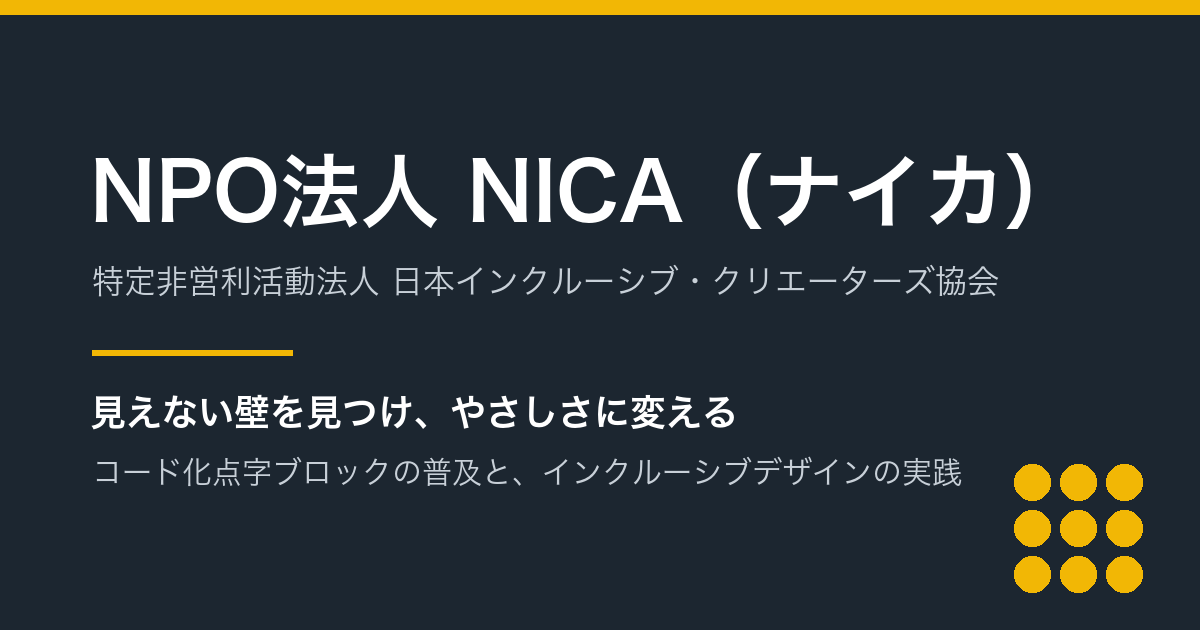
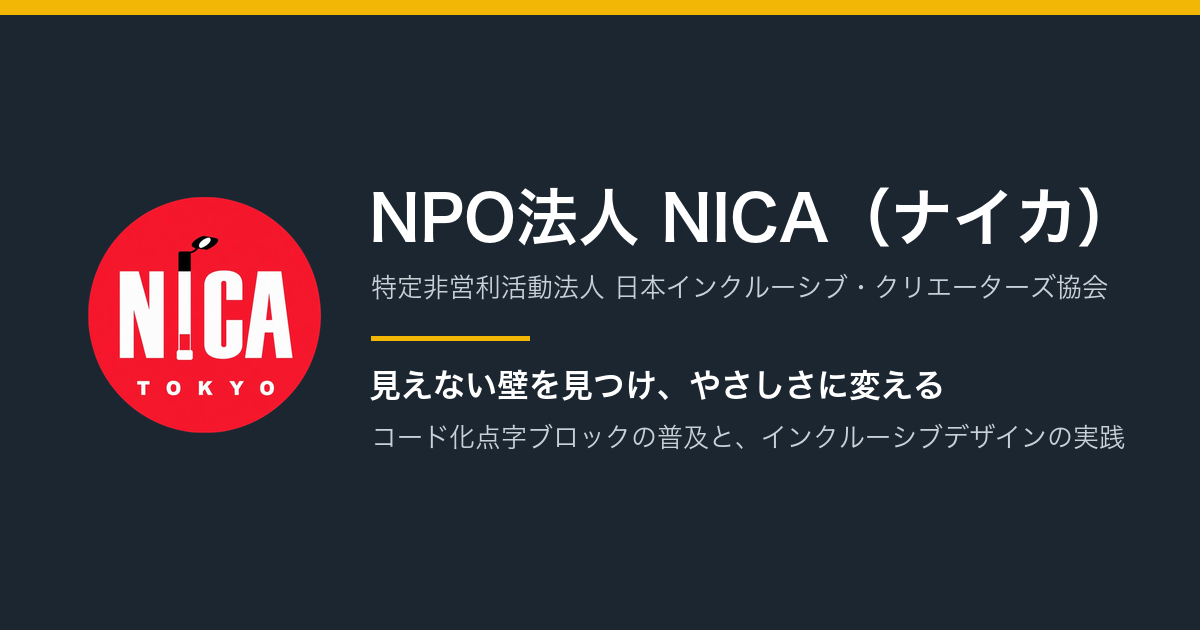
団体のロゴをヘッダー・アイコン・共有画像に反映
白杖を「I」にした赤い円形マークを全体に適用した。

- ヘッダーに団体名と並べてロゴを表示（alt="" で二重読みを防ぐ）
- favicon と Apple のホーム画面用アイコンをロゴから生成
- 共有画像（OGP）をロゴ入りのものに差し替え
- ロゴを差し替えたら作り直せるよう make_brand.py を追加
- 自作していた点字ブロック風の favicon.svg は削除

Changed region(s): [[0.0617, 0.2413, 0.9558, 0.9349], [0.8633, 0.4222, 0.925, 0.4825], [0.3083, 0.5127, 0.4317, 0.5429]]

diff --git a/index.html b/index.html
@@ -5,7 +5,7 @@
 <meta name="viewport" content="width=device-width, initial-scale=1">
 <title>NPO法人 NICA（ナイカ）｜特定非営利活動法人 日本インクルーシブ・クリエーターズ協会</title>
 <meta name="description" content="視覚に障害のある方々と共に社会課題を洗い出し、解決策を提案するNPO法人です。コード化点字ブロックの普及、インクルーシブデザイン研修などに取り組んでいます。">
-<link rel="icon" href="./assets/favicon.svg" type="image/svg+xml">
+<link rel="icon" href="./assets/favicon.png" type="image/png">
 <link rel="apple-touch-icon" href="./assets/apple-touch-icon.png">
 <meta name="theme-color" content="#1c2630">
 <link rel="canonical" href="https://www.nica-japan.jp/">
@@ -39,8 +39,11 @@
 
 <header class="site-header" id="top">
   <div class="wrap">
-    <p class="site-title"><a href="./">NPO法人 <span class="en">NICA</span>（ナイカ）</a></p>
-    <p class="site-sub">特定非営利活動法人 日本インクルーシブ・クリエーターズ協会</p>
+    <p class="site-title"><a href="./"><picture>
+      <source srcset="./assets/img/logo.webp" type="image/webp">
+      <img class="site-logo" src="./assets/img/logo.png" alt=""
+           width="192" height="192" decoding="async">
+    </picture><span class="site-name">NPO法人 <span class="en">NICA</span>（ナイカ）<span class="site-sub">特定非営利活動法人 日本インクルーシブ・クリエーターズ協会</span></span></a></p>
     <nav class="nav" aria-label="メインメニュー">
       <ul>
       <li><a href="./" aria-current="page">ホーム</a></li>

diff --git a/braille-block/index.html b/braille-block/index.html
@@ -5,7 +5,7 @@
 <meta name="viewport" content="width=device-width, initial-scale=1">
 <title>コード化点字ブロックのご紹介｜NPO法人 NICA（ナイカ）</title>
 <meta name="description" content="既存の点字ブロックにマーキングを施し、スマートフォンで読み取って音声案内を受け取れるコード化点字ブロックの仕組みと特徴。">
-<link rel="icon" href="../assets/favicon.svg" type="image/svg+xml">
+<link rel="icon" href="../assets/favicon.png" type="image/png">
 <link rel="apple-touch-icon" href="../assets/apple-touch-icon.png">
 <meta name="theme-color" content="#1c2630">
 <link rel="canonical" href="https://www.nica-japan.jp/braille-block/">
@@ -27,8 +27,11 @@
 
 <header class="site-header" id="top">
   <div class="wrap">
-    <p class="site-title"><a href="../">NPO法人 <span class="en">NICA</span>（ナイカ）</a></p>
-    <p class="site-sub">特定非営利活動法人 日本インクルーシブ・クリエーターズ協会</p>
+    <p class="site-title"><a href="../"><picture>
+      <source srcset="../assets/img/logo.webp" type="image/webp">
+      <img class="site-logo" src="../assets/img/logo.png" alt=""
+           width="192" height="192" decoding="async">
+    </picture><span class="site-name">NPO法人 <span class="en">NICA</span>（ナイカ）<span class="site-sub">特定非営利活動法人 日本インクルーシブ・クリエーターズ協会</span></span></a></p>
     <nav class="nav" aria-label="メインメニュー">
       <ul>
       <li><a href="../">ホーム</a></li>

diff --git a/activities/index.html b/activities/index.html
@@ -5,7 +5,7 @@
 <meta name="viewport" content="width=device-width, initial-scale=1">
 <title>活動報告｜NPO法人 NICA（ナイカ）</title>
 <meta name="description" content="NPO法人NICAの活動実績。2018年から現在までの講演、研修、ワークショップ、コード化点字ブロックの敷設記録を年ごとに掲載しています。">
-<link rel="icon" href="../assets/favicon.svg" type="image/svg+xml">
+<link rel="icon" href="../assets/favicon.png" type="image/png">
 <link rel="apple-touch-icon" href="../assets/apple-touch-icon.png">
 <meta name="theme-color" content="#1c2630">
 <link rel="canonical" href="https://www.nica-japan.jp/activities/">
@@ -27,8 +27,11 @@
 
 <header class="site-header" id="top">
   <div class="wrap">
-    <p class="site-title"><a href="../">NPO法人 <span class="en">NICA</span>（ナイカ）</a></p>
-    <p class="site-sub">特定非営利活動法人 日本インクルーシブ・クリエーターズ協会</p>
+    <p class="site-title"><a href="../"><picture>
+      <source srcset="../assets/img/logo.webp" type="image/webp">
+      <img class="site-logo" src="../assets/img/logo.png" alt=""
+           width="192" height="192" decoding="async">
+    </picture><span class="site-name">NPO法人 <span class="en">NICA</span>（ナイカ）<span class="site-sub">特定非営利活動法人 日本インクルーシブ・クリエーターズ協会</span></span></a></p>
     <nav class="nav" aria-label="メインメニュー">
       <ul>
       <li><a href="../">ホーム</a></li>

diff --git a/mission/index.html b/mission/index.html
@@ -5,7 +5,7 @@
 <meta name="viewport" content="width=device-width, initial-scale=1">
 <title>ミッション｜NPO法人 NICA（ナイカ）</title>
 <meta name="description" content="NPO法人NICAが目指す社会について。視覚に障害のある方と共に社会課題を洗い出し、ちょっと暮らしやすくなる社会を実現します。">
-<link rel="icon" href="../assets/favicon.svg" type="image/svg+xml">
+<link rel="icon" href="../assets/favicon.png" type="image/png">
 <link rel="apple-touch-icon" href="../assets/apple-touch-icon.png">
 <meta name="theme-color" content="#1c2630">
 <link rel="canonical" href="https://www.nica-japan.jp/mission/">
@@ -27,8 +27,11 @@
 
 <header class="site-header" id="top">
   <div class="wrap">
-    <p class="site-title"><a href="../">NPO法人 <span class="en">NICA</span>（ナイカ）</a></p>
-    <p class="site-sub">特定非営利活動法人 日本インクルーシブ・クリエーターズ協会</p>
+    <p class="site-title"><a href="../"><picture>
+      <source srcset="../assets/img/logo.webp" type="image/webp">
+      <img class="site-logo" src="../assets/img/logo.png" alt=""
+           width="192" height="192" decoding="async">
+    </picture><span class="site-name">NPO法人 <span class="en">NICA</span>（ナイカ）<span class="site-sub">特定非営利活動法人 日本インクルーシブ・クリエーターズ協会</span></span></a></p>
     <nav class="nav" aria-label="メインメニュー">
       <ul>
       <li><a href="../">ホーム</a></li>

diff --git a/contact/index.html b/contact/index.html
@@ -5,7 +5,7 @@
 <meta name="viewport" content="width=device-width, initial-scale=1">
 <title>お問い合わせ｜NPO法人 NICA（ナイカ）</title>
 <meta name="description" content="NPO法人NICAへのお問い合わせ先。体験会のご依頼、研修のご相談、取材などはメールでご連絡ください。">
-<link rel="icon" href="../assets/favicon.svg" type="image/svg+xml">
+<link rel="icon" href="../assets/favicon.png" type="image/png">
 <link rel="apple-touch-icon" href="../assets/apple-touch-icon.png">
 <meta name="theme-color" content="#1c2630">
 <link rel="canonical" href="https://www.nica-japan.jp/contact/">
@@ -27,8 +27,11 @@
 
 <header class="site-header" id="top">
   <div class="wrap">
-    <p class="site-title"><a href="../">NPO法人 <span class="en">NICA</span>（ナイカ）</a></p>
-    <p class="site-sub">特定非営利活動法人 日本インクルーシブ・クリエーターズ協会</p>
+    <p class="site-title"><a href="../"><picture>
+      <source srcset="../assets/img/logo.webp" type="image/webp">
+      <img class="site-logo" src="../assets/img/logo.png" alt=""
+           width="192" height="192" decoding="async">
+    </picture><span class="site-name">NPO法人 <span class="en">NICA</span>（ナイカ）<span class="site-sub">特定非営利活動法人 日本インクルーシブ・クリエーターズ協会</span></span></a></p>
     <nav class="nav" aria-label="メインメニュー">
       <ul>
       <li><a href="../">ホーム</a></li>

diff --git a/braille-block/events/index.html b/braille-block/events/index.html
@@ -5,7 +5,7 @@
 <meta name="viewport" content="width=device-width, initial-scale=1">
 <title>体験会・実証実験の記録｜NPO法人 NICA（ナイカ）</title>
 <meta name="description" content="コード化点字ブロックの体験会、敷設、実証実験の記録。">
-<link rel="icon" href="../../assets/favicon.svg" type="image/svg+xml">
+<link rel="icon" href="../../assets/favicon.png" type="image/png">
 <link rel="apple-touch-icon" href="../../assets/apple-touch-icon.png">
 <meta name="theme-color" content="#1c2630">
 <link rel="canonical" href="https://www.nica-japan.jp/braille-block/events/">
@@ -27,8 +27,11 @@
 
 <header class="site-header" id="top">
   <div class="wrap">
-    <p class="site-title"><a href="../../">NPO法人 <span class="en">NICA</span>（ナイカ）</a></p>
-    <p class="site-sub">特定非営利活動法人 日本インクルーシブ・クリエーターズ協会</p>
+    <p class="site-title"><a href="../../"><picture>
+      <source srcset="../../assets/img/logo.webp" type="image/webp">
+      <img class="site-logo" src="../../assets/img/logo.png" alt=""
+           width="192" height="192" decoding="async">
+    </picture><span class="site-name">NPO法人 <span class="en">NICA</span>（ナイカ）<span class="site-sub">特定非営利活動法人 日本インクルーシブ・クリエーターズ協会</span></span></a></p>
     <nav class="nav" aria-label="メインメニュー">
       <ul>
       <li><a href="../../">ホーム</a></li>

diff --git a/braille-block/videos/index.html b/braille-block/videos/index.html
@@ -5,7 +5,7 @@
 <meta name="viewport" content="width=device-width, initial-scale=1">
 <title>紹介動画｜NPO法人 NICA（ナイカ）</title>
 <meta name="description" content="コード化点字ブロックの実証実験と体験会の様子を撮影した動画。">
-<link rel="icon" href="../../assets/favicon.svg" type="image/svg+xml">
+<link rel="icon" href="../../assets/favicon.png" type="image/png">
 <link rel="apple-touch-icon" href="../../assets/apple-touch-icon.png">
 <meta name="theme-color" content="#1c2630">
 <link rel="canonical" href="https://www.nica-japan.jp/braille-block/videos/">
@@ -27,8 +27,11 @@
 
 <header class="site-header" id="top">
   <div class="wrap">
-    <p class="site-title"><a href="../../">NPO法人 <span class="en">NICA</span>（ナイカ）</a></p>
-    <p class="site-sub">特定非営利活動法人 日本インクルーシブ・クリエーターズ協会</p>
+    <p class="site-title"><a href="../../"><picture>
+      <source srcset="../../assets/img/logo.webp" type="image/webp">
+      <img class="site-logo" src="../../assets/img/logo.png" alt=""
+           width="192" height="192" decoding="async">
+    </picture><span class="site-name">NPO法人 <span class="en">NICA</span>（ナイカ）<span class="site-sub">特定非営利活動法人 日本インクルーシブ・クリエーターズ協会</span></span></a></p>
     <nav class="nav" aria-label="メインメニュー">
       <ul>
       <li><a href="../../">ホーム</a></li>

diff --git a/donate/index.html b/donate/index.html
@@ -5,7 +5,7 @@
 <meta name="viewport" content="width=device-width, initial-scale=1">
 <title>寄付のお願い｜NPO法人 NICA（ナイカ）</title>
 <meta name="description" content="コード化点字ブロックの全国的な普及に向けたご支援のお願いと、振込先のご案内。">
-<link rel="icon" href="../assets/favicon.svg" type="image/svg+xml">
+<link rel="icon" href="../assets/favicon.png" type="image/png">
 <link rel="apple-touch-icon" href="../assets/apple-touch-icon.png">
 <meta name="theme-color" content="#1c2630">
 <link rel="canonical" href="https://www.nica-japan.jp/donate/">
@@ -27,8 +27,11 @@
 
 <header class="site-header" id="top">
   <div class="wrap">
-    <p class="site-title"><a href="../">NPO法人 <span class="en">NICA</span>（ナイカ）</a></p>
-    <p class="site-sub">特定非営利活動法人 日本インクルーシブ・クリエーターズ協会</p>
+    <p class="site-title"><a href="../"><picture>
+      <source srcset="../assets/img/logo.webp" type="image/webp">
+      <img class="site-logo" src="../assets/img/logo.png" alt=""
+           width="192" height="192" decoding="async">
+    </picture><span class="site-name">NPO法人 <span class="en">NICA</span>（ナイカ）<span class="site-sub">特定非営利活動法人 日本インクルーシブ・クリエーターズ協会</span></span></a></p>
     <nav class="nav" aria-label="メインメニュー">
       <ul>
       <li><a href="../">ホーム</a></li>

diff --git a/about/index.html b/about/index.html
@@ -5,7 +5,7 @@
 <meta name="viewport" content="width=device-width, initial-scale=1">
 <title>NICAとは｜NPO法人 NICA（ナイカ）</title>
 <meta name="description" content="NPO法人NICA（日本インクルーシブ・クリエーターズ協会）の紹介、取り組み例、法人概要。">
-<link rel="icon" href="../assets/favicon.svg" type="image/svg+xml">
+<link rel="icon" href="../assets/favicon.png" type="image/png">
 <link rel="apple-touch-icon" href="../assets/apple-touch-icon.png">
 <meta name="theme-color" content="#1c2630">
 <link rel="canonical" href="https://www.nica-japan.jp/about/">
@@ -27,8 +27,11 @@
 
 <header class="site-header" id="top">
   <div class="wrap">
-    <p class="site-title"><a href="../">NPO法人 <span class="en">NICA</span>（ナイカ）</a></p>
-    <p class="site-sub">特定非営利活動法人 日本インクルーシブ・クリエーターズ協会</p>
+    <p class="site-title"><a href="../"><picture>
+      <source srcset="../assets/img/logo.webp" type="image/webp">
+      <img class="site-logo" src="../assets/img/logo.png" alt=""
+           width="192" height="192" decoding="async">
+    </picture><span class="site-name">NPO法人 <span class="en">NICA</span>（ナイカ）<span class="site-sub">特定非営利活動法人 日本インクルーシブ・クリエーターズ協会</span></span></a></p>
     <nav class="nav" aria-label="メインメニュー">
       <ul>
       <li><a href="../">ホーム</a></li>

diff --git a/activities/2018-2021/index.html b/activities/2018-2021/index.html
@@ -5,7 +5,7 @@
 <meta name="viewport" content="width=device-width, initial-scale=1">
 <title>2018年〜2021年の活動｜NPO法人 NICA（ナイカ）</title>
 <meta name="description" content="NPO法人NICAの2018年〜2021年の活動の記録。">
-<link rel="icon" href="../../assets/favicon.svg" type="image/svg+xml">
+<link rel="icon" href="../../assets/favicon.png" type="image/png">
 <link rel="apple-touch-icon" href="../../assets/apple-touch-icon.png">
 <meta name="theme-color" content="#1c2630">
 <link rel="canonical" href="https://www.nica-japan.jp/activities/2018-2021/">
@@ -27,8 +27,11 @@
 
 <header class="site-header" id="top">
   <div class="wrap">
-    <p class="site-title"><a href="../../">NPO法人 <span class="en">NICA</span>（ナイカ）</a></p>
-    <p class="site-sub">特定非営利活動法人 日本インクルーシブ・クリエーターズ協会</p>
+    <p class="site-title"><a href="../../"><picture>
+      <source srcset="../../assets/img/logo.webp" type="image/webp">
+      <img class="site-logo" src="../../assets/img/logo.png" alt=""
+           width="192" height="192" decoding="async">
+    </picture><span class="site-name">NPO法人 <span class="en">NICA</span>（ナイカ）<span class="site-sub">特定非営利活動法人 日本インクルーシブ・クリエーターズ協会</span></span></a></p>
     <nav class="nav" aria-label="メインメニュー">
       <ul>
       <li><a href="../../">ホーム</a></li>

diff --git a/activities/2022/index.html b/activities/2022/index.html
@@ -5,7 +5,7 @@
 <meta name="viewport" content="width=device-width, initial-scale=1">
 <title>2022年の活動｜NPO法人 NICA（ナイカ）</title>
 <meta name="description" content="NPO法人NICAの2022年の活動の記録。">
-<link rel="icon" href="../../assets/favicon.svg" type="image/svg+xml">
+<link rel="icon" href="../../assets/favicon.png" type="image/png">
 <link rel="apple-touch-icon" href="../../assets/apple-touch-icon.png">
 <meta name="theme-color" content="#1c2630">
 <link rel="canonical" href="https://www.nica-japan.jp/activities/2022/">
@@ -27,8 +27,11 @@
 
 <header class="site-header" id="top">
   <div class="wrap">
-    <p class="site-title"><a href="../../">NPO法人 <span class="en">NICA</span>（ナイカ）</a></p>
-    <p class="site-sub">特定非営利活動法人 日本インクルーシブ・クリエーターズ協会</p>
+    <p class="site-title"><a href="../../"><picture>
+      <source srcset="../../assets/img/logo.webp" type="image/webp">
+      <img class="site-logo" src="../../assets/img/logo.png" alt=""
+           width="192" height="192" decoding="async">
+    </picture><span class="site-name">NPO法人 <span class="en">NICA</span>（ナイカ）<span class="site-sub">特定非営利活動法人 日本インクルーシブ・クリエーターズ協会</span></span></a></p>
     <nav class="nav" aria-label="メインメニュー">
       <ul>
       <li><a href="../../">ホーム</a></li>

diff --git a/activities/2023/index.html b/activities/2023/index.html
@@ -5,7 +5,7 @@
 <meta name="viewport" content="width=device-width, initial-scale=1">
 <title>2023年の活動｜NPO法人 NICA（ナイカ）</title>
 <meta name="description" content="NPO法人NICAの2023年の活動の記録。">
-<link rel="icon" href="../../assets/favicon.svg" type="image/svg+xml">
+<link rel="icon" href="../../assets/favicon.png" type="image/png">
 <link rel="apple-touch-icon" href="../../assets/apple-touch-icon.png">
 <meta name="theme-color" content="#1c2630">
 <link rel="canonical" href="https://www.nica-japan.jp/activities/2023/">
@@ -27,8 +27,11 @@
 
 <header class="site-header" id="top">
   <div class="wrap">
-    <p class="site-title"><a href="../../">NPO法人 <span class="en">NICA</span>（ナイカ）</a></p>
-    <p class="site-sub">特定非営利活動法人 日本インクルーシブ・クリエーターズ協会</p>
+    <p class="site-title"><a href="../../"><picture>
+      <source srcset="../../assets/img/logo.webp" type="image/webp">
+      <img class="site-logo" src="../../assets/img/logo.png" alt=""
+           width="192" height="192" decoding="async">
+    </picture><span class="site-name">NPO法人 <span class="en">NICA</span>（ナイカ）<span class="site-sub">特定非営利活動法人 日本インクルーシブ・クリエーターズ協会</span></span></a></p>
     <nav class="nav" aria-label="メインメニュー">
       <ul>
       <li><a href="../../">ホーム</a></li>
